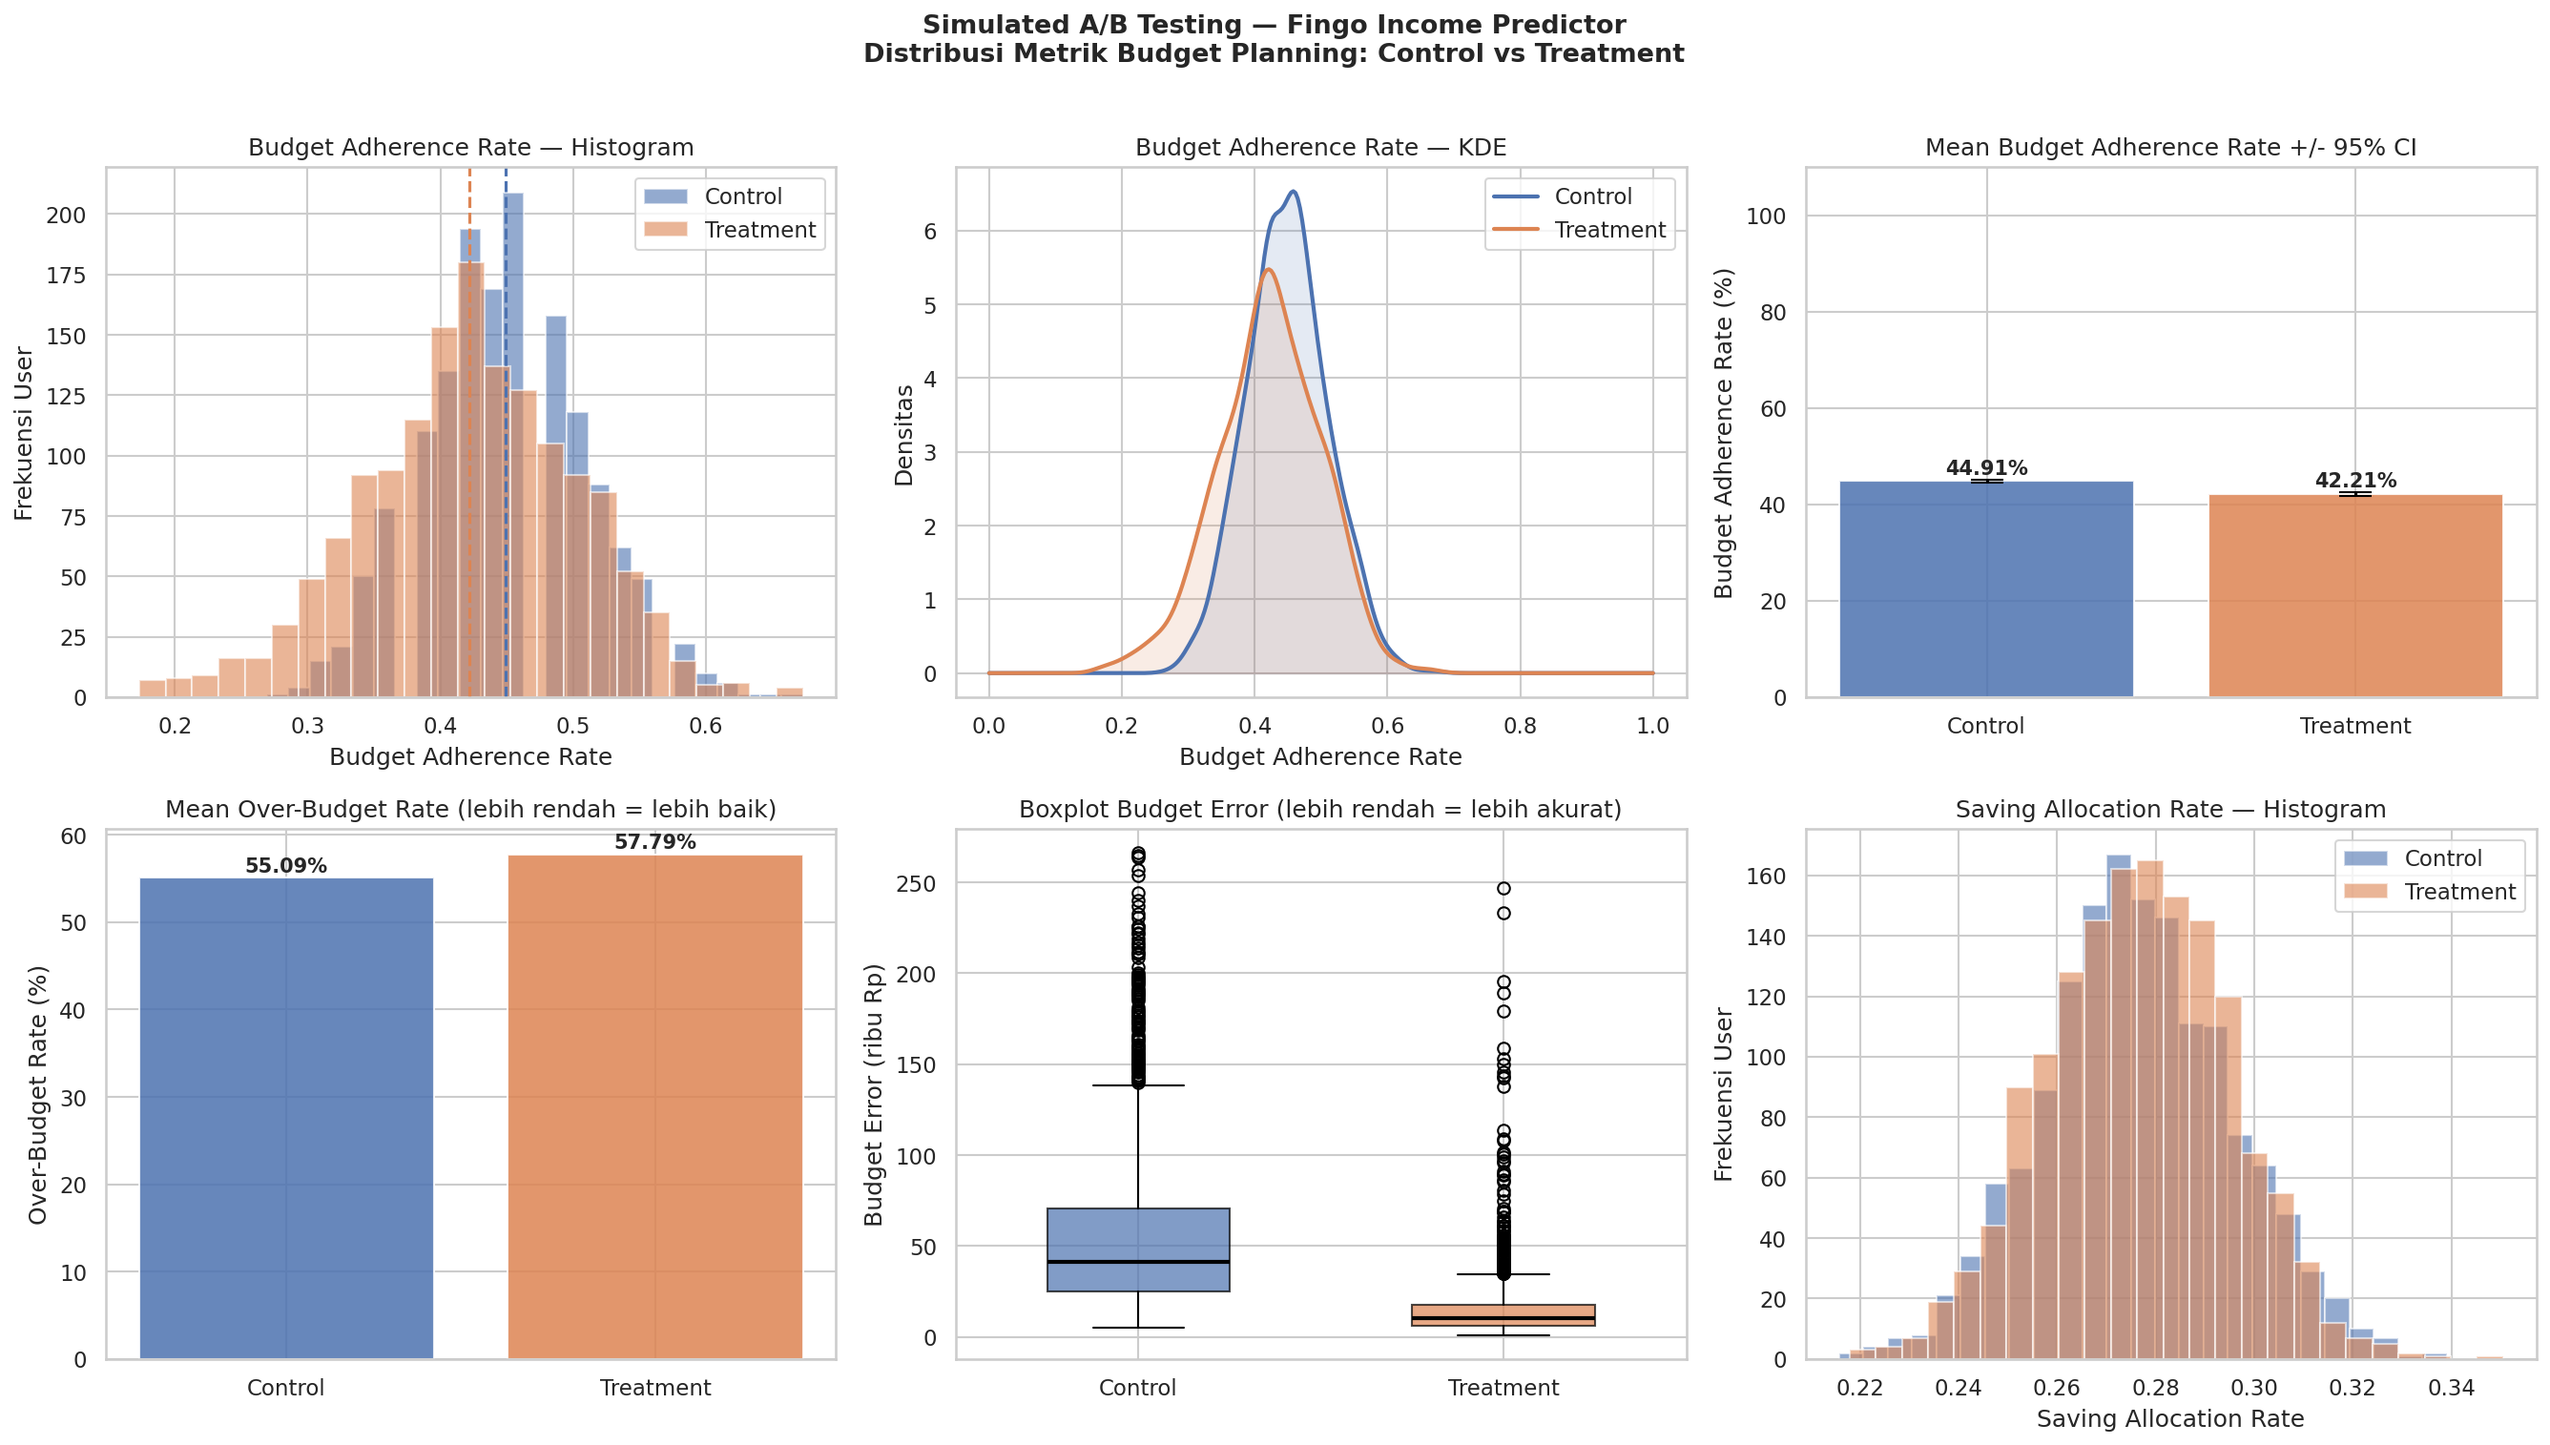
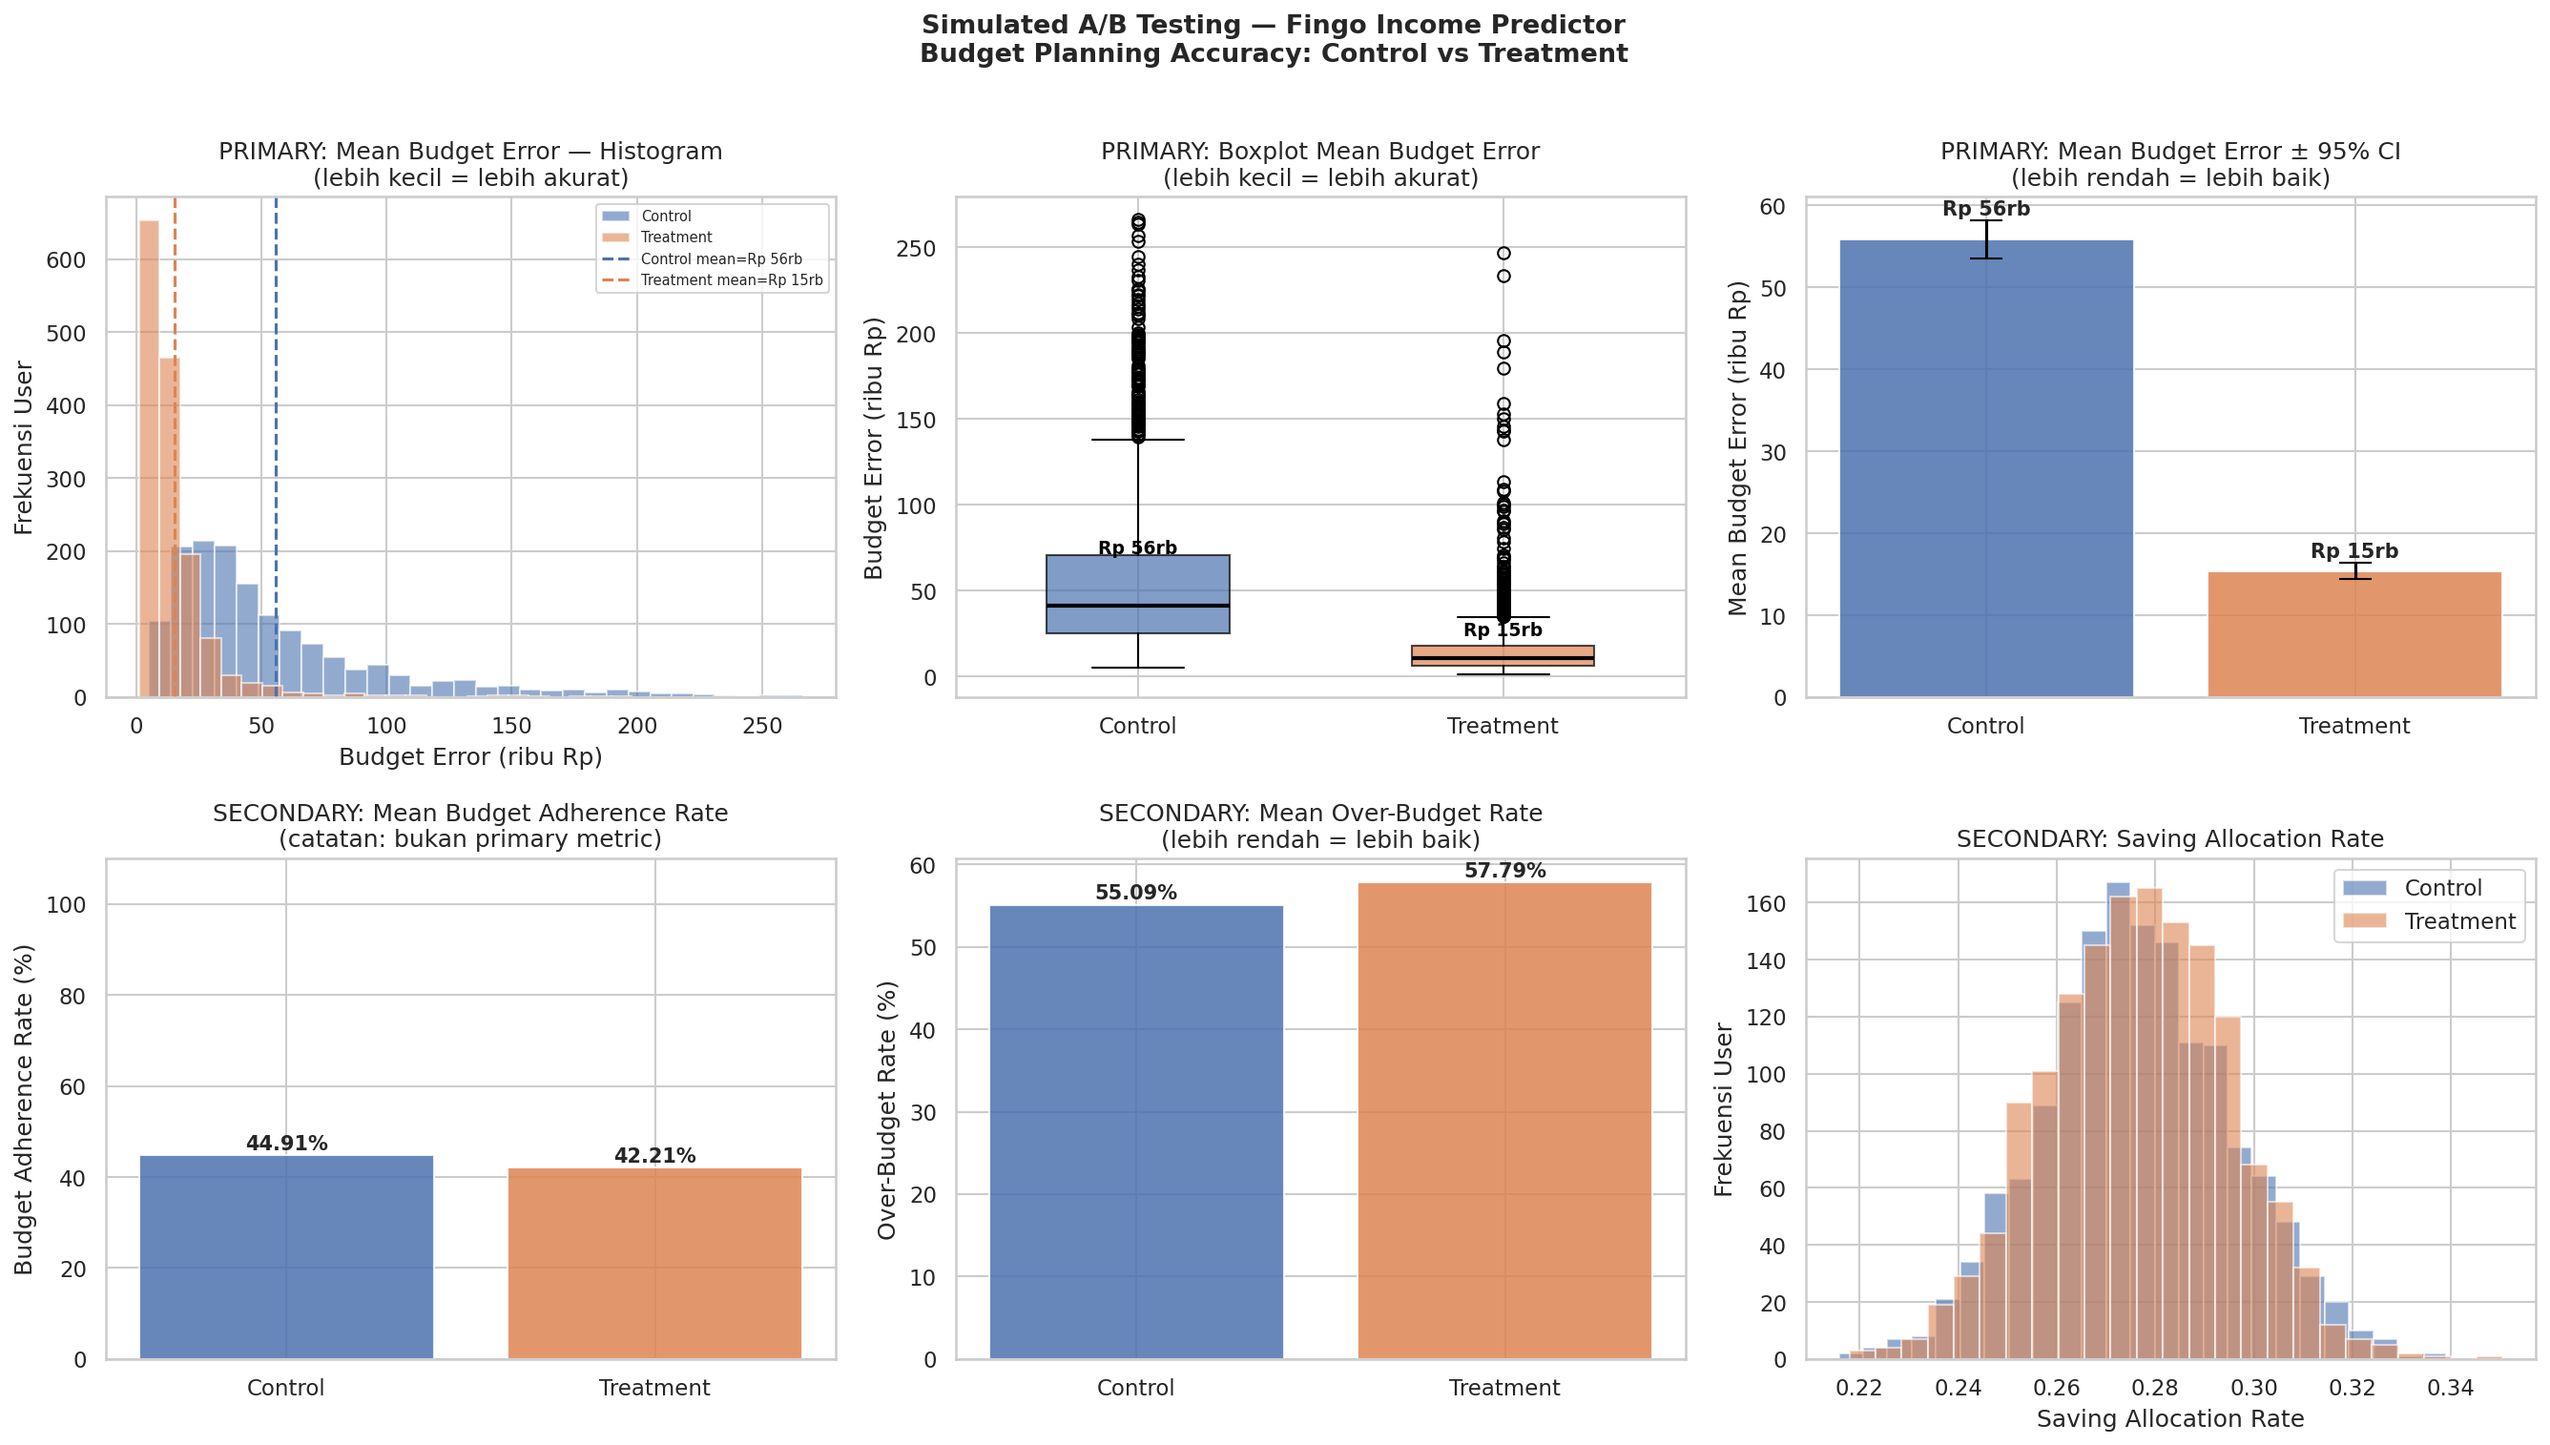
feat: add A/B Testing Income Predictor budgeting report and charts

diff --git a/outputs/reports/ab_testing_income_predictor_budgeting_report.md b/outputs/reports/ab_testing_income_predictor_budgeting_report.md
@@ -9,17 +9,23 @@
 > **Income Predictor** yang mendukung **Budget Planner adaptif** Fingo.
 > Seluruh hasil harus diinterpretasikan sebagai **proof-of-concept**, bukan sebagai bukti
 > kausalitas atau efektivitas fitur di dunia nyata.
+> Validasi live experiment pada pengguna nyata tetap diperlukan.
 
 ---
 
 ## 1. Latar Belakang
 Fingo Income Predictor menggunakan data synthetic income time-series 52 minggu untuk
-memprediksi pendapatan pengguna gig worker. Output prediksi income digunakan untuk membantu
-pengguna menyusun budget yang lebih realistis melalui **Budget Planner adaptif**.
+memprediksi pendapatan pengguna gig worker. Output prediksi income digunakan untuk
+membantu pengguna menyusun budget yang lebih realistis melalui **Budget Planner adaptif**.
 
 A/B Testing ini dirancang untuk menguji apakah pengguna yang mendapatkan bantuan prediksi
-income dan rekomendasi budget adaptif memiliki perencanaan anggaran yang lebih baik
-dibandingkan pengguna yang membuat budget manual berdasarkan rata-rata income historis.
+income menghasilkan perencanaan anggaran yang **lebih akurat** dibandingkan pengguna yang
+membuat budget manual berdasarkan rata-rata income historis.
+
+> **Catatan penting**: Income Predictor tidak diuji untuk menaikkan pendapatan dan tidak
+> langsung menjamin user tidak over-budget. Income Predictor diuji sebagai alat bantu
+> budget planning. Dampak terhadap perilaku pengeluaran (budget adherence, over-budget rate)
+> perlu divalidasi terpisah melalui eksperimen live.
 
 ## 2. Desain Eksperimen
 
@@ -27,89 +33,109 @@ dibandingkan pengguna yang membuat budget manual berdasarkan rata-rata income hi
 |--------|-----------|
 | Sumber data | synthetic_52week_user_income.csv (3,000 user, 52 minggu) |
 | Metode assignment | Stratified random 50:50 per gig_type |
-| Control Group | Budget manual berdasarkan rolling mean 4 minggu |
+| Control Group | Budget manual berdasarkan rolling mean 4 minggu income historis |
 | Treatment Group | Budget adaptif berdasarkan predicted income (Income Predictor) |
 | N Control | 1,502 user |
 | N Treatment | 1,498 user |
+| **Primary Metric** | `mean_budget_error` — rata-rata selisih absolut antara planned budget dan ideal budget (actual_income × BUDGET_RATIO) |
+| Secondary Metrics | `budget_adherence_rate`, `over_budget_rate`, `expense_to_income_ratio`, `saving_allocation_rate`, `budget_gap` |
 
 ## 3. Hipotesis
 
-- **H0**: budget_adherence_rate Treatment = Control
-- **H1**: budget_adherence_rate Treatment > Control (one-tailed)
+- **H0**: mean_budget_error Treatment = Control
+- **H1**: mean_budget_error Treatment < Control (one-tailed)
 - Significance level: alpha = 0.05
+- Interpretasi: nilai lebih kecil = budget planning lebih akurat
 
 ## 4. Statistik Deskriptif — Primary Metric
 
 | Metrik | Control | Treatment |
 |--------|---------|-----------|
 | N | 1,502 | 1,498 |
-| Mean Budget Adherence Rate | 0.4491 (44.91%) | 0.4221 (42.21%) |
-| Median | 0.4423 | 0.4231 |
-| Std Dev | 0.0609 | 0.0777 |
-| Mean Over-Budget Rate | 0.5509 | 0.5779 |
 | Mean Budget Error | Rp 56rb | Rp 15rb |
+| Median Budget Error | Rp 41rb | Rp 10rb |
+| Std Dev Budget Error | Rp 45rb | Rp 20rb |
+| Absolute Diff (T-C) | — | Rp -40rb |
+| Relative Change | — | -72.43% |
 
-## 5. Uji Asumsi
+## 5. Secondary Metric: budget_adherence_rate
+
+| Metrik | Control | Treatment | Diff |
+|--------|---------|-----------|------|
+| Budget Adherence Rate | 44.91% | 42.21% | -2.70pp |
+| Over-Budget Rate | 55.09% | 57.79% | — |
+
+> **Interpretasi**: Jika budget adherence Treatment lebih rendah dari Control, hal ini tidak
+> berarti Income Predictor gagal. Akurasi budget (mean_budget_error) tidak otomatis mengubah
+> perilaku pengeluaran user. Budget adherence dipengaruhi oleh kepatuhan user terhadap
+> rekomendasi, yang memerlukan validasi terpisah melalui eksperimen live.
+
+## 6. Uji Asumsi
 
 | Uji | Statistic | p-value | Hasil |
 |-----|-----------|---------|-------|
-| Shapiro-Wilk (Control) | 0.9852 | 0.000058 | Tidak Normal |
-| Shapiro-Wilk (Treatment) | 0.9895 | 0.001255 | Tidak Normal |
-| Levene | 60.9087 | 0.000000 | Tidak Homogen |
+| Shapiro-Wilk (Control) | 0.8173 | 0.000000 | Tidak Normal |
+| Shapiro-Wilk (Treatment) | 0.4756 | 0.000000 | Tidak Normal |
+| Levene | 415.8148 | 0.000000 | Tidak Homogen |
 
-> Uji utama yang dipilih: **Mann-Whitney U**
+> Uji utama yang dipilih: **Mann-Whitney U** (berdasarkan hasil uji asumsi di atas)
 
-## 6. Hasil Uji Hipotesis
+## 7. Hasil Uji Hipotesis
 
 | Uji | Statistic | p-value | Keputusan | Peran |
 |-----|-----------|---------|-----------|-------|
-| Mann-Whitney U (one-tailed) | 898692 | 1.000000 | Gagal Tolak H0 | **Utama** |
-| Welch t-test (one-tailed) | -10.5706 | 1.000000 | Gagal Tolak H0 | Pendukung |
+| Mann-Whitney U (alternative=less) | 229456 | 0.000000 | Tolak H0 | **Utama** |
+| Welch t-test (one-tailed: T < C) | -31.6231 | 0.000000 | Tolak H0 | Pendukung |
 
-## 7. Effect Size & Confidence Interval
+## 8. Effect Size & Confidence Interval
 
-- **Cohen's d** = -0.3862 -> Efek Sedang
-- **Absolute Difference** = -2.70 poin persentase
-- **Relative Lift** = -6.00%
-- **95% CI (Welch)**: [-3.20pp, -2.20pp]
-- **Bootstrap 95% CI**: [-3.19pp, -2.20pp]
-- **CI melewati nol**: Ya - perbedaan belum dapat dikonfirmasi.
+- **Cohen's d** = -1.1546 → Efek Besar (Treatment lebih baik (d negatif = budget error lebih rendah))
+- **Absolute Difference** (T-C) = Rp -40rb
+- **Relative Change** = -72.43%
+- **95% CI (Welch)**: [Rp -43rb, Rp -38rb]
+- **CI Interpretation**: Seluruh CI negatif → Treatment secara statistik memiliki budget error lebih rendah.
 
-## 8. Power Analysis
+## 9. Power Analysis
 
 - **Power yang dicapai** dengan n=1498: **1.0000** (Cukup >= 0.80)
 
-## 9. Subgroup Analysis
+## 10. Subgroup Analysis
 
 > Hasil subgroup bersifat **eksploratorif**. Jangan dijadikan klaim utama.
 
-| Gig Type | n_ctrl | n_treat | BAR Control | BAR Treatment | Diff | MW p | Indikasi |
-|----------|--------|---------|-------------|---------------|------|------|----------|
-| content_creator | 139 | 138 | 0.445 | 0.413 | -3.18pp | 0.9991 | - |
-| freelance_desain | 230 | 229 | 0.441 | 0.419 | -2.24pp | 0.9970 | - |
-| freelance_it | 180 | 180 | 0.436 | 0.415 | -2.03pp | 0.9753 | - |
-| jualan_online | 248 | 248 | 0.451 | 0.424 | -2.70pp | 1.0000 | - |
-| kurir | 113 | 112 | 0.445 | 0.427 | -1.80pp | 0.9852 | - |
-| ojek_online | 115 | 114 | 0.460 | 0.433 | -2.65pp | 0.9924 | - |
-| pekerja_harian | 249 | 249 | 0.460 | 0.421 | -3.85pp | 1.0000 | - |
-| tutor | 228 | 228 | 0.453 | 0.427 | -2.59pp | 1.0000 | - |
+| Gig Type | n_ctrl | n_treat | BE Control | BE Treatment | Rel Reduction | MW p | Indikasi |
+|----------|--------|---------|------------|--------------|---------------|------|----------|
+| content_creator | 139 | 138 | Rp 54rb | Rp 13rb | -76.7% | 0.0000 | positif |
+| freelance_desain | 230 | 229 | Rp 81rb | Rp 21rb | -73.4% | 0.0000 | positif |
+| freelance_it | 180 | 180 | Rp 108rb | Rp 28rb | -74.4% | 0.0000 | positif |
+| jualan_online | 248 | 248 | Rp 36rb | Rp 10rb | -72.1% | 0.0000 | positif |
+| kurir | 113 | 112 | Rp 36rb | Rp 11rb | -68.3% | 0.0000 | positif |
+| ojek_online | 115 | 114 | Rp 37rb | Rp 11rb | -69.2% | 0.0000 | positif |
+| pekerja_harian | 249 | 249 | Rp 44rb | Rp 13rb | -70.3% | 0.0000 | positif |
+| tutor | 228 | 228 | Rp 45rb | Rp 14rb | -69.2% | 0.0000 | positif |
 
-## 10. Kesimpulan
+## 11. Kesimpulan
 
-Treatment menunjukkan arah positif terhadap peningkatan budget adherence rate (-2.70 poin persentase, relative lift -6.00%), tetapi belum terdapat bukti statistik yang cukup untuk menyatakan bahwa penggunaan Income Predictor secara signifikan lebih baik dibandingkan budgeting manual (Mann-Whitney U p=1.000000 >= alpha=0.05).\n\nValidasi lanjutan diperlukan dengan data yang lebih besar, metrik perilaku yang lebih lengkap, dan eksperimen live pada pengguna nyata.
+Simulasi A/B Testing menunjukkan bahwa penggunaan Income Predictor sebagai dasar Budget Planner adaptif dapat menurunkan budget error dibandingkan budgeting manual. Hal ini menunjukkan bahwa Income Predictor membantu menghasilkan rencana budget yang lebih akurat terhadap kondisi income aktual. Uji Mann-Whitney U menghasilkan p-value = 0.000000 (< alpha=0.05), sehingga H0 ditolak. Relative reduction budget error sebesar -72.43% mengindikasikan efek yang bermakna (Cohen's d = -1.1546, Besar).
 
-## 11. Rekomendasi
+Namun, peningkatan akurasi budget belum otomatis menurunkan over-budget rate atau meningkatkan budget adherence, karena perilaku pengeluaran pengguna tetap dipengaruhi oleh kepatuhan terhadap rekomendasi. Dampak terhadap budget adherence dan over-budget rate perlu divalidasi lebih lanjut melalui eksperimen live.
+
+Karena data yang digunakan bersifat synthetic, hasil ini harus dipahami sebagai proof-of-concept dan masih memerlukan validasi dengan eksperimen live pada pengguna nyata.
+
+## 12. Rekomendasi
 
 1. **Lanjutkan dengan eksperimen live** pada pengguna nyata untuk validasi kausal.
 2. **Perbesar sample size** agar power >= 0.80 dapat dicapai untuk effect size yang relevan.
 3. **Gunakan metrik behavioral yang lebih lengkap**: notification_response_rate, app_engagement,
    impulsive_transaction_count, plan_revision_frequency.
-4. **Validasi subgroup secara dedicated** per segmen gig_type yang menunjukkan indikasi positif.
+4. **Validasi budget adherence secara dedicated** — uji terpisah dengan desain yang dirancang
+   untuk mengukur perubahan perilaku pengeluaran, bukan hanya akurasi perencanaan.
 5. **Jangan rollout berdasarkan data synthetic ini** — hasil ini adalah proof-of-concept,
    bukan bukti efektivitas fitur di dunia nyata.
 
 ---
 
-> *"Simulasi A/B Testing ini merupakan proof-of-concept yang menunjukkan bahwa Income Predictor
-> berpotensi membantu pengguna menyusun budget yang lebih akurat. Validasi melalui eksperimen
-> live pada pengguna nyata tetap diperlukan sebelum kesimpulan kausal dapat ditarik."*
+> *"Income Predictor tidak terbukti langsung meningkatkan budget adherence, tetapi berpotensi*
+> *meningkatkan akurasi budget planning karena Treatment menghasilkan budget error yang lebih*
+> *rendah dibanding budgeting manual. Karena data synthetic, hasil tetap harus dianggap*
+> *proof-of-concept dan perlu validasi live experiment."*
